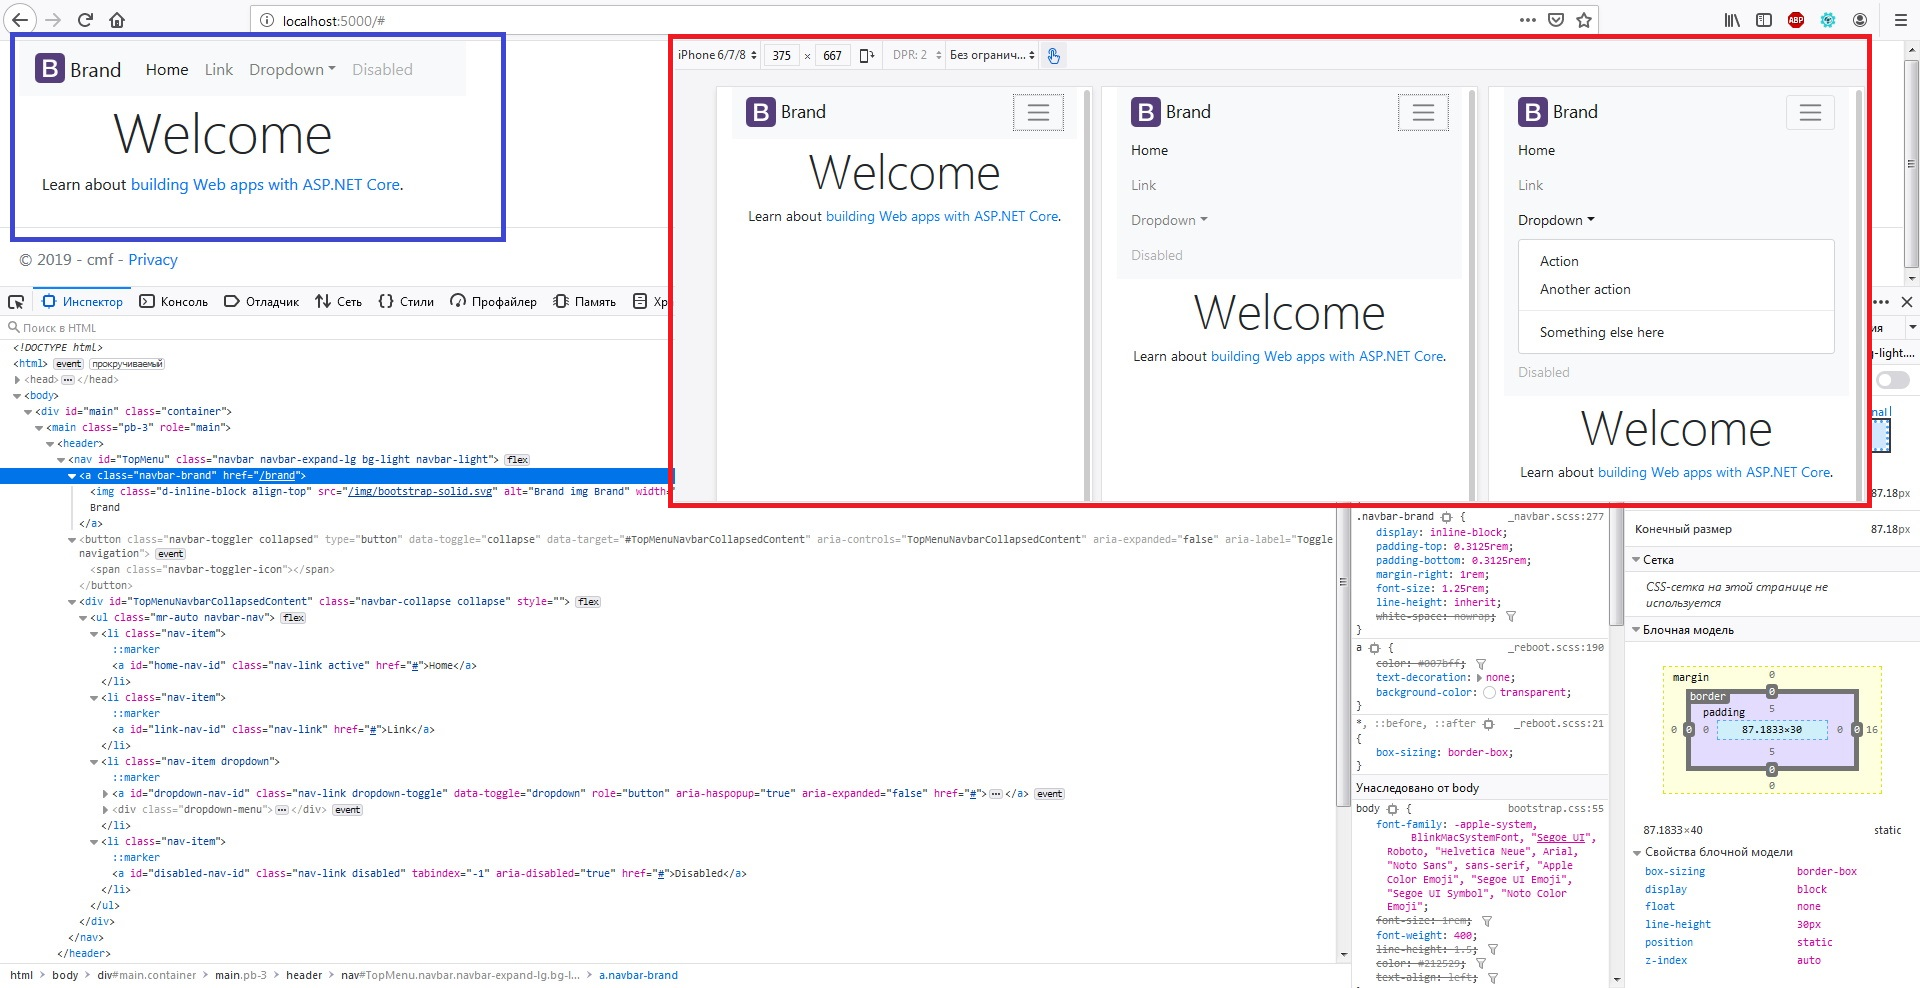
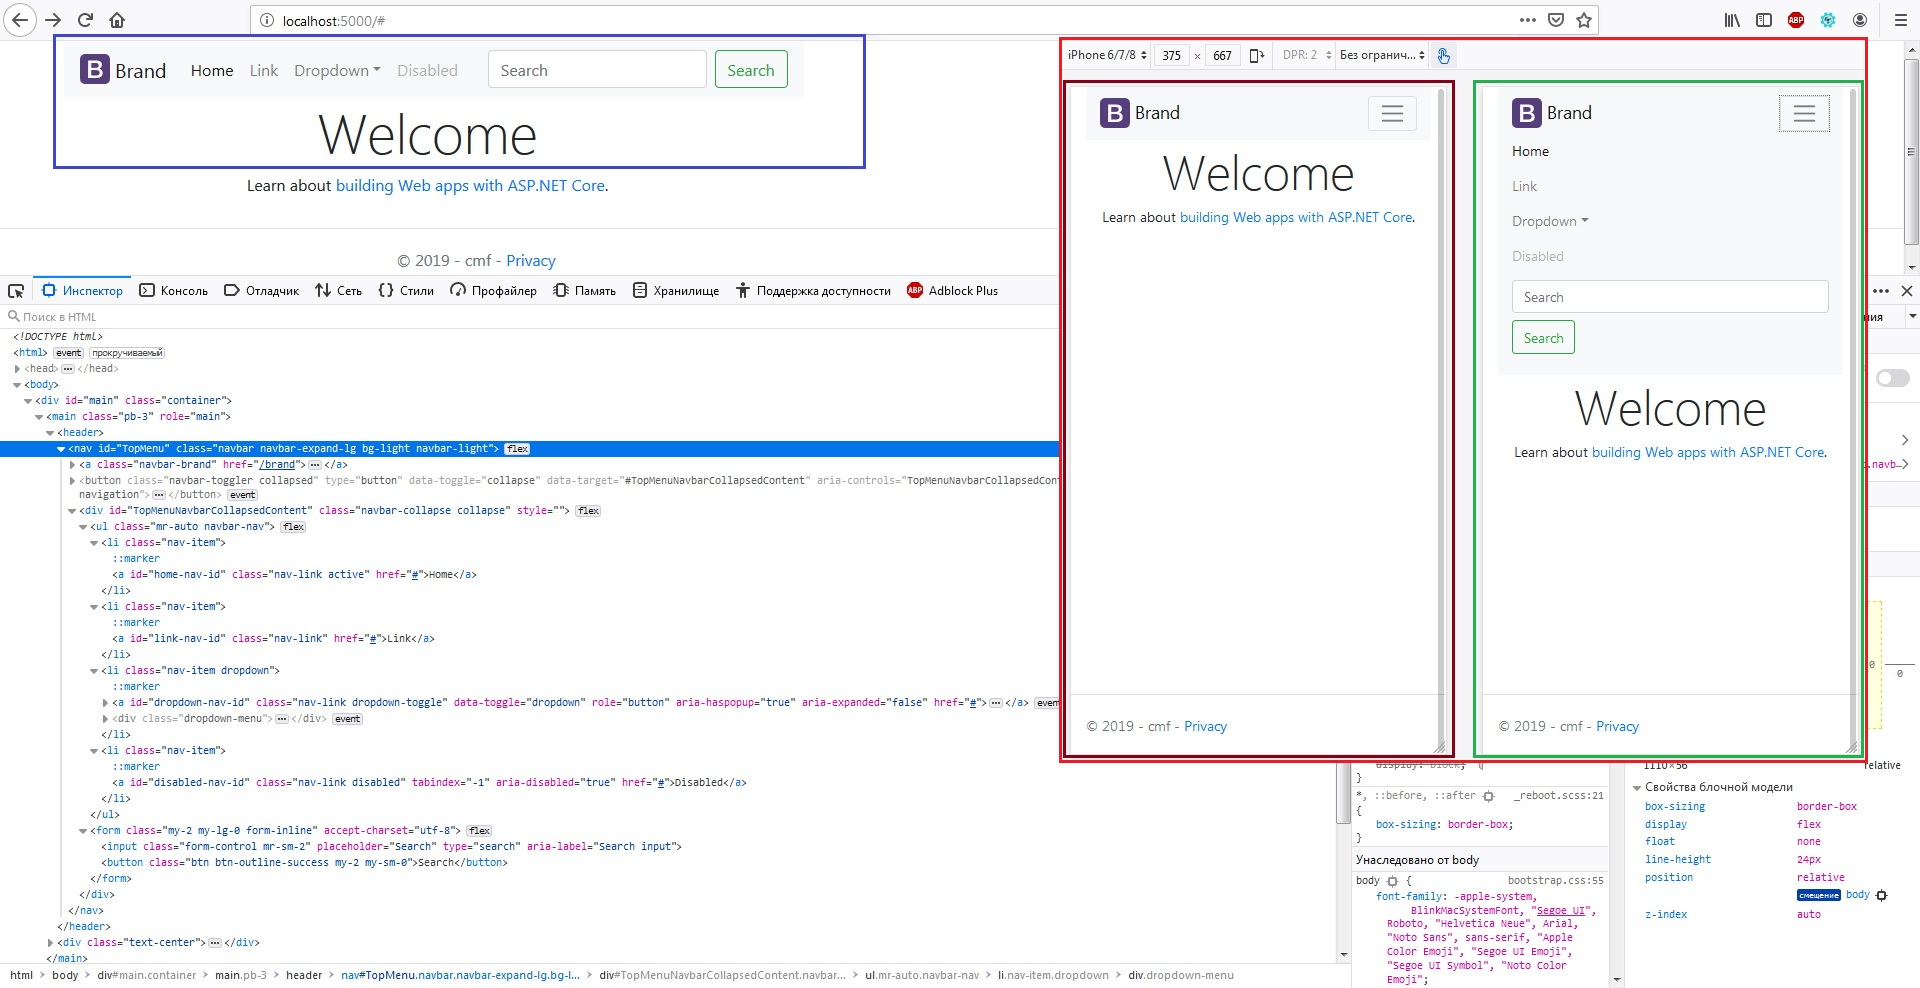
~

diff --git a/Components/html/bootstrap/navbar/NavbarBody.cs b/Components/html/bootstrap/navbar/NavbarBody.cs
@@ -1,7 +1,7 @@
 ////////////////////////////////////////////////
 // © https://github.com/badhitman - @fakegov
 ////////////////////////////////////////////////
-using BootstrapViewComponentsRazorLibrary.Service.bootstrap.navbar;
+using BootstrapViewComponentsRazorLibrary.Service;
 using Microsoft.AspNetCore.Mvc;
 using Microsoft.Extensions.Logging;
 
@@ -15,7 +15,7 @@ namespace BootstrapViewComponentsRazorLibrary.Components.bootstrap.navbar
             logger = _loggerFactory.CreateLogger(this.GetType().Name + "Class");
         }
 
-        public IViewComponentResult Invoke(NavbarBodyManager SetObjectManager)
+        public IViewComponentResult Invoke(AbstractNestedToolsManager SetObjectManager)
         {
             return View(SetObjectManager);
         }

diff --git a/Service/html/ButtonBaseManager.cs b/Service/html/ButtonBaseManager.cs
@@ -2,11 +2,21 @@
 // © https://github.com/badhitman - @fakegov
 ////////////////////////////////////////////////
 using BootstrapViewComponentsRazorLibrary.Components.html;
+using BootstrapViewComponentsRazorLibrary.Models.html;
 
 namespace BootstrapViewComponentsRazorLibrary.Service.html
 {
     public class ButtonBaseManager : AbstractDomManager
     {
+        public ButtonTypesEnum ButtonType { get; set; } = ButtonTypesEnum.button;
+
+        public string Header { get; set; }
+
         public override string ViewComponentName => nameof(ButtonBase);
+
+        public ButtonBaseManager(string SetHeader)
+        {
+            Header = SetHeader;
+        }
     }
 }

diff --git a/Components/html/ButtonBase.cs b/Components/html/ButtonBase.cs
@@ -1,18 +1,16 @@
 ////////////////////////////////////////////////
 // © https://github.com/badhitman - @fakegov
 ////////////////////////////////////////////////
+using BootstrapViewComponentsRazorLibrary.Service.html;
 using Microsoft.AspNetCore.Mvc;
-using System;
-using System.Collections.Generic;
-using System.Text;
 
 namespace BootstrapViewComponentsRazorLibrary.Components.html
 {
     public class ButtonBase : ViewComponent
     {
-        public IViewComponentResult Invoke()
+        public IViewComponentResult Invoke(ButtonBaseManager SetObjectManager)
         {
-            return View();
+            return View(SetObjectManager);
         }
     }
 }

diff --git a/Service/html/TextedInputManager.cs b/Service/html/TextedInputManager.cs
@@ -44,7 +44,15 @@ namespace BootstrapViewComponentsRazorLibrary.Service.html
             {
                 if (!string.IsNullOrWhiteSpace(Placeholder))
                     SetAttribute("placeholder", Placeholder);
+                
+                if (!string.IsNullOrWhiteSpace(PatternInput))
+                    SetAttribute("pattern", PatternInput);
 
+                if (SizeInput>0)
+                    SetAttribute("size", SizeInput);
+                
+                if (Autocomplete != null)
+                    SetAttribute("autocomplete", Autocomplete == true ? "on" : "off");
 
                 return base.StringAttributes;
             }

diff --git a/Components/html/input/InputBase.cs b/Components/html/input/InputBase.cs
@@ -1,15 +1,16 @@
 ////////////////////////////////////////////////
 // © https://github.com/badhitman - @fakegov
 ////////////////////////////////////////////////
+using BootstrapViewComponentsRazorLibrary.Service.html;
 using Microsoft.AspNetCore.Mvc;
 
 namespace BootstrapViewComponentsRazorLibrary.Components.bootstrap.input
 {
     public class InputBase : ViewComponent
     {
-        public IViewComponentResult Invoke()
+        public IViewComponentResult Invoke(InputBaseManager SetObjectManager)
         {
-            return View();
+            return View(SetObjectManager);
         }
     }
 }

diff --git a/Components/html/bootstrap/navbar/README.md b/Components/html/bootstrap/navbar/README.md
@@ -20,6 +20,7 @@
     ImageNavbarBrandSrc = "/img/bootstrap-solid.svg"
   };
 
+
   NavbarNavManager navbar_nav_manager = new NavbarNavManager();
   navbar_nav_manager.AddCSS("mr-auto"); // добавляем контейнеру стили: margin-right: auto !important;
   navbar_nav_manager.AddNavItem(id_dom: "home-nav-id", header: "Home", href: "#").IsActive = true;
@@ -34,6 +35,25 @@
   navbar_nav_manager.AddNavItem("disabled-nav-id", "Disabled", "#").IsDisabled = true;
 
   navbar_manager.NavbarBody.AddSubNode(navbar_nav_manager);
+
+  FormManager formManager = new FormManager();
+
+  TextedInputManager input_manager = new TextedInputManager(BootstrapViewComponents.InputTypesEnum.search)
+  {
+    Placeholder = "Search"
+  };
+  input_manager.AddCSS("form-control mr-sm-2", true);
+   formManager.AddSubNode(input_manager);
+
+  ButtonBaseManager button_manager = new ButtonBaseManager("Search");
+  button_manager.AddCSS("btn btn-outline-success my-2 my-sm-0", true);
+
+  formManager.AddSubNode(button_manager);
+
+
+  formManager.AddCSS("my-2 my-lg-0", true);
+  navbar_manager.NavbarBody.AddSubNode(formManager);
+
   @await Component.InvokeAsync(typeof(NavbarBase).Name, new { SetObjectManager = navbar_manager });
 }
 </header>
